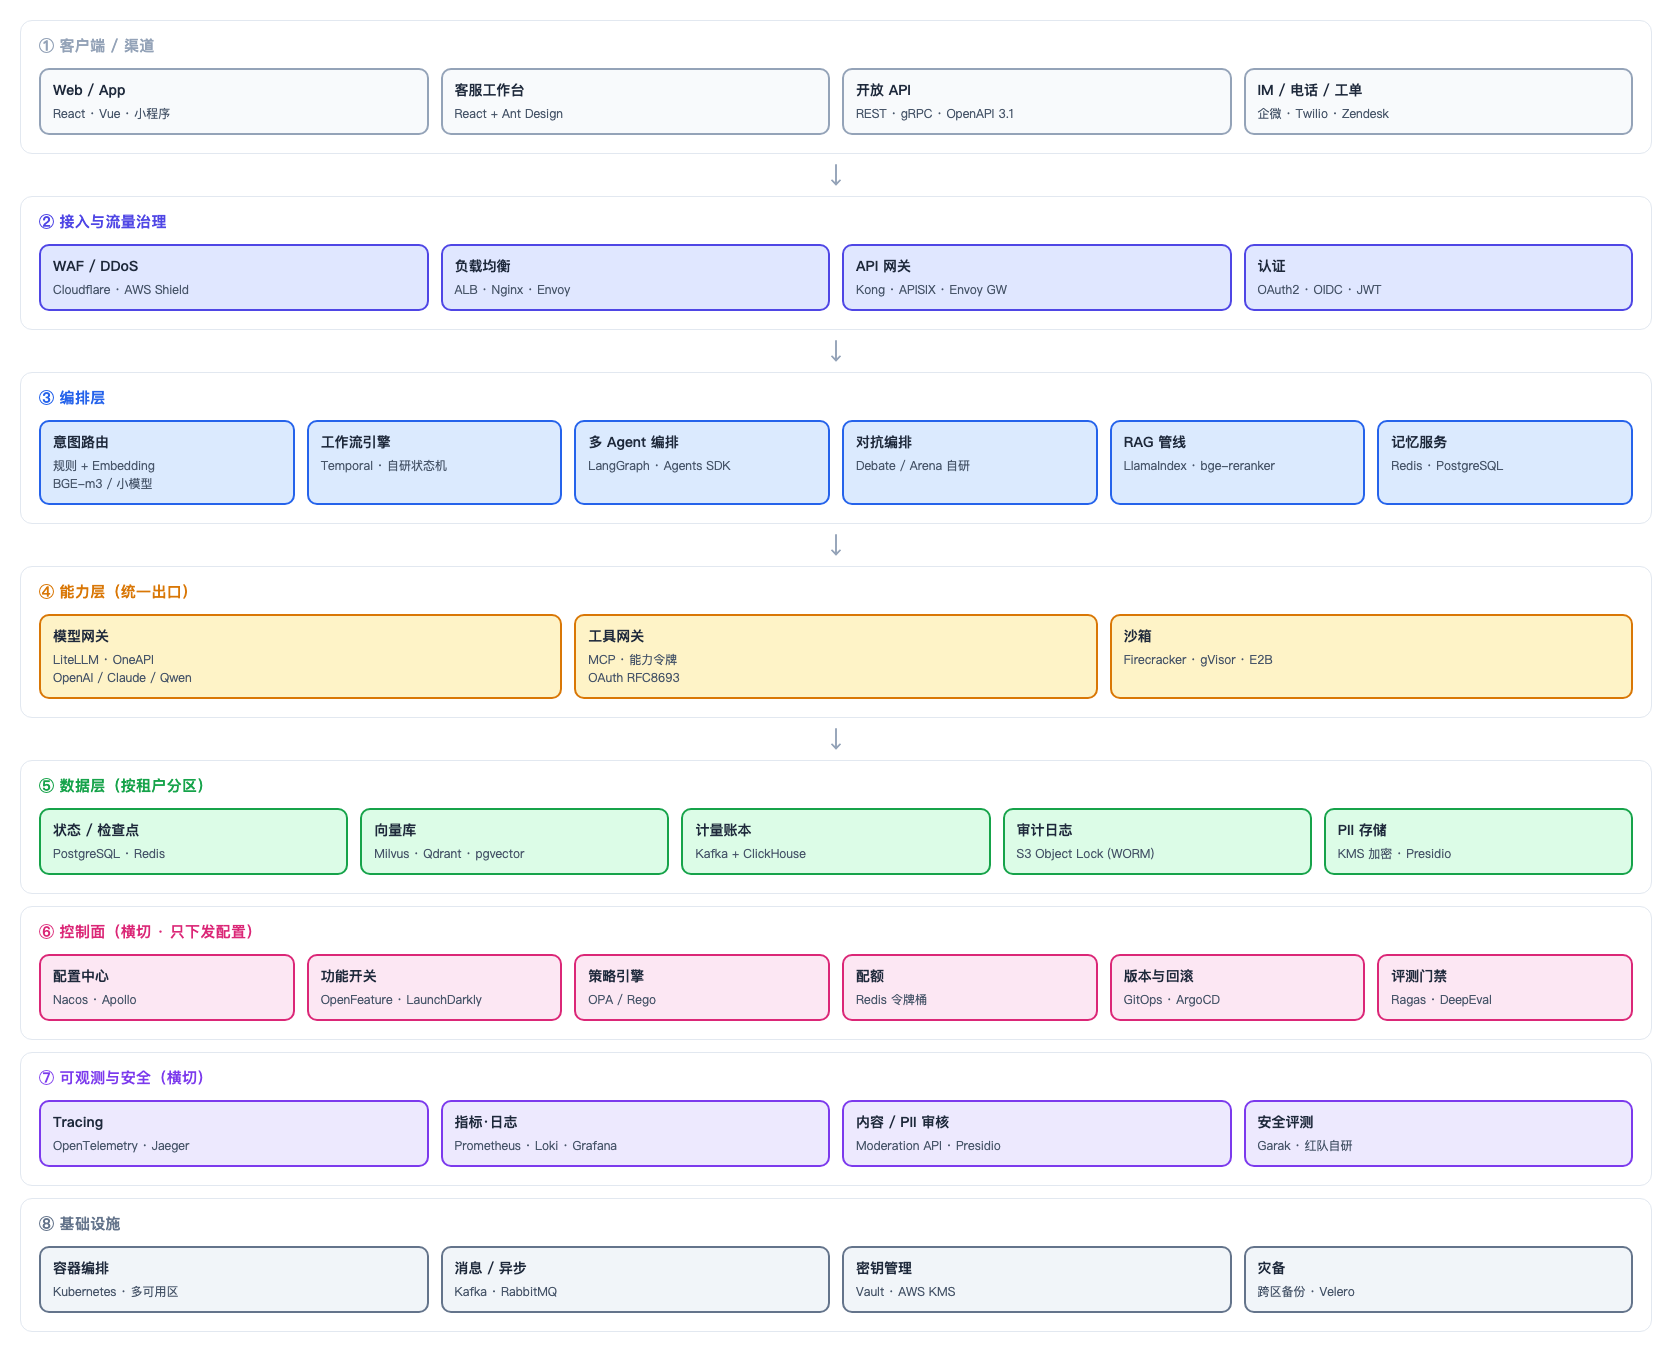
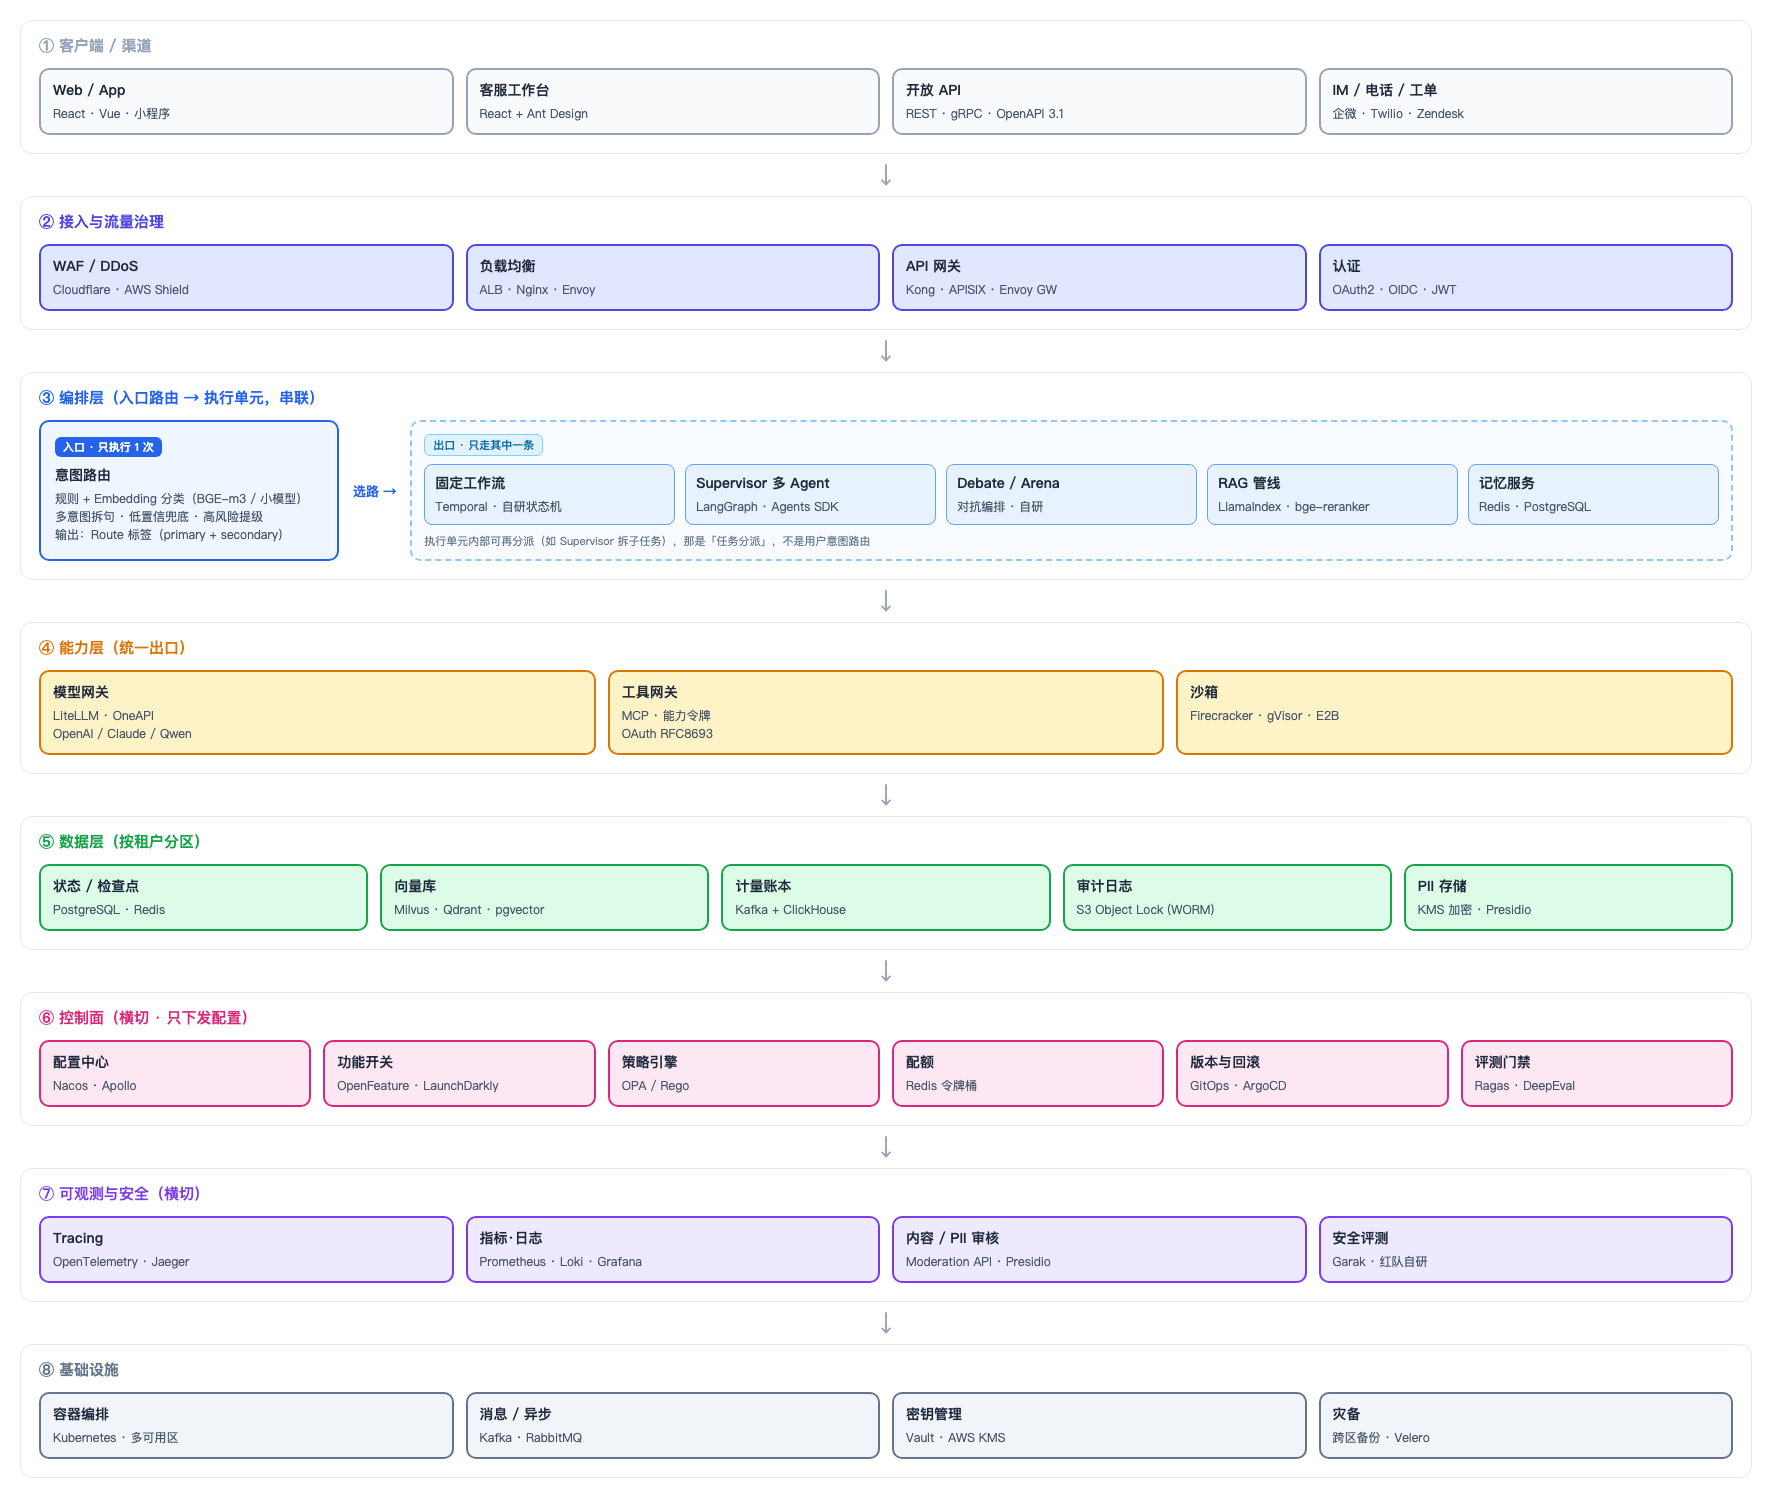
docs: 编排层改为「入口路由→执行单元」串联，澄清路由与编排关系
- ③ 编排层重画：意图路由是入口（只执行 1 次），产出 Route 标签
- 执行单元是出口（只走一条），内部再分派属任务分派而非意图路由
- 新增说明：三条规则 + 路由/任务分派对照表 + 两种错误接法

diff --git a/offline/practice/enterprise-architecture.html b/offline/practice/enterprise-architecture.html
@@ -113,6 +113,55 @@
 <p>上面那张图只画了&quot;层和职责&quot;。下面这张标到<strong>具体技术选型</strong>——每格上半是能力，下半是落地技术。选型是<strong>常见组合</strong>，不是唯一答案；同一格通常有 2–3 个可替换选项。</p>
 <p><img src="../assets/images/enterprise-architecture-tech.png" alt="" loading="lazy"></p>
 <p class="diagram-caption"><strong>图 2</strong> · 每个节点标注了落地技术；开源与云服务混列，按团队现状替换</p>
+<h3 id="意图路由和编排层是怎么衔接的">意图路由和编排层是怎么衔接的</h3>
+<p>图 2 里 ③ 编排层已经画成了<strong>串联</strong>结构，这是关键，容易被误读成并列：</p>
+<div class="code-block"><div class="code-lang">text</div><pre><code>③ 编排层
+  ┌───────────────────────────────────────────┐
+  │  意图路由（入口，只执行 1 次）              │
+  │    · 输入：用户文本                         │
+  │    · 输出：Route 标签（primary + secondary）│
+  │         │  选路                             │
+  │         ▼                                   │
+  │  执行单元（只走其中一条）                   │
+  │    · 固定工作流 / Supervisor / Debate / RAG │
+  └───────────────────────────────────────────┘
+</code></pre></div>
+<p>三条规则：</p>
+<ol>
+<li><strong>路由是编排层的入口，不是它的兄弟。</strong> 路由先跑一次，产出标签；编排消费标签去执行。</li>
+<li><strong>路由产出的只是标签，不执行任何业务逻辑。</strong> 真正干活的是被选中的那个执行单元。</li>
+<li><strong>执行单元内部可以再分派</strong>（Supervisor 把子任务分给不同 Worker），但那是<strong>任务分派</strong>，不是用户意图路由——两者层次不同、错了的后果也不同。</li>
+</ol>
+<div class="table-wrap"><table>
+<thead>
+<tr>
+<th></th>
+<th>用户意图路由</th>
+<th>编排内任务分派</th>
+</tr>
+</thead>
+<tbody>
+<tr>
+<td>判断对象</td>
+<td>用户说了什么</td>
+<td>任务该给谁</td>
+</tr>
+<tr>
+<td>执行次数</td>
+<td>1 次</td>
+<td>每个子任务一次</td>
+</tr>
+<tr>
+<td>错了的后果</td>
+<td>走错业务线（体验事故）</td>
+<td>某个 Worker 选错（可重试）</td>
+</tr>
+</tbody>
+</table></div>
+<div class="custom-block warning"><p class="custom-block-title">两种常见错误接法</p>
+<p><strong>错误一</strong>：把路由塞进 Supervisor 当子任务——路由错在最外层下游无法修正，且简单请求也被迫先拆解再路由，成本翻倍。
+<strong>错误二</strong>：路由之后让编排器自己再判断一次意图——判断分散两处，改一条规则要改两个地方，调参无法归因。</p>
+</div>
 <h3 id="选型速查表">选型速查表</h3>
 <div class="table-wrap"><table>
 <thead>
